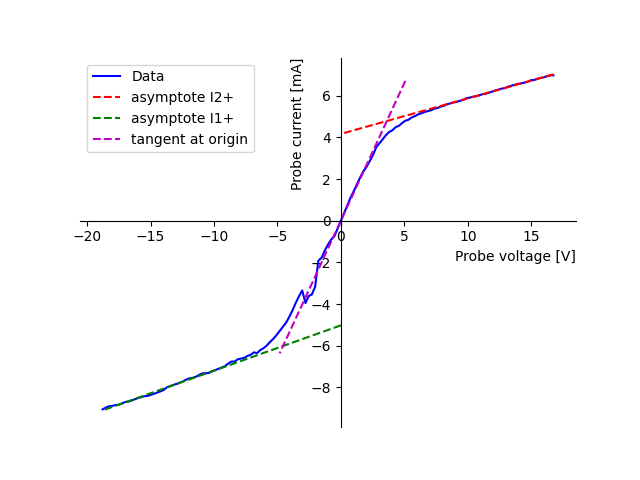
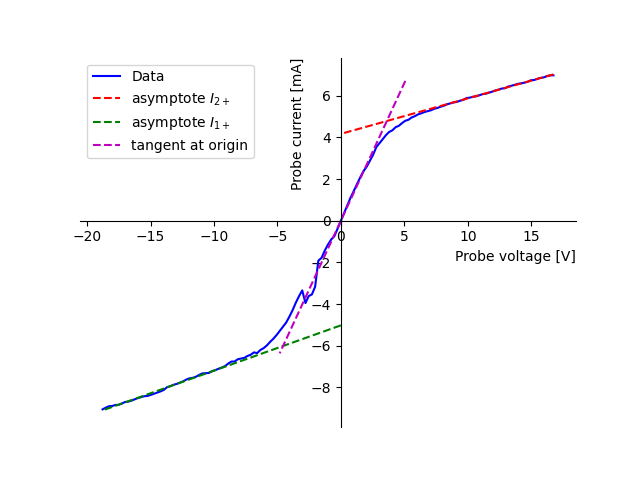
Font update

Changed region(s): [[0.125, 0.1875, 0.4062, 0.3438]]

diff --git a/analysis_part2.py b/analysis_part2.py
@@ -56,8 +56,8 @@ def fit_asymptotes(xdata,ydata,pressure,current,first_a_guess=1,first_b_guess=-2
     plt.plot(xdata, ydata, 'b-',label='Data')
     plt.xlabel('Probe voltage [V]',loc='right')
     plt.ylabel('Probe current [mA]',loc='top')
-    plt.plot(xdata[:zero_index], asymptote(xdata[:zero_index], *popt_0), 'r--', label='asymptote I2+')
-    plt.plot(xdata[zero_index:], asymptote(xdata[zero_index:], *popt_1), 'g--', label='asymptote I1+')
+    plt.plot(xdata[:zero_index], asymptote(xdata[:zero_index], *popt_0), 'r--', label=r'asymptote $I_{2+}$')
+    plt.plot(xdata[zero_index:], asymptote(xdata[zero_index:], *popt_1), 'g--', label=r'asymptote $I_{1+}$')
     plt.plot(xdata[start_index_2-10:stop_index_2+10], asymptote(xdata[start_index_2-10:stop_index_2+10], *popt_2), 'm--', label='tangent at origin')
 
     plt.legend()
